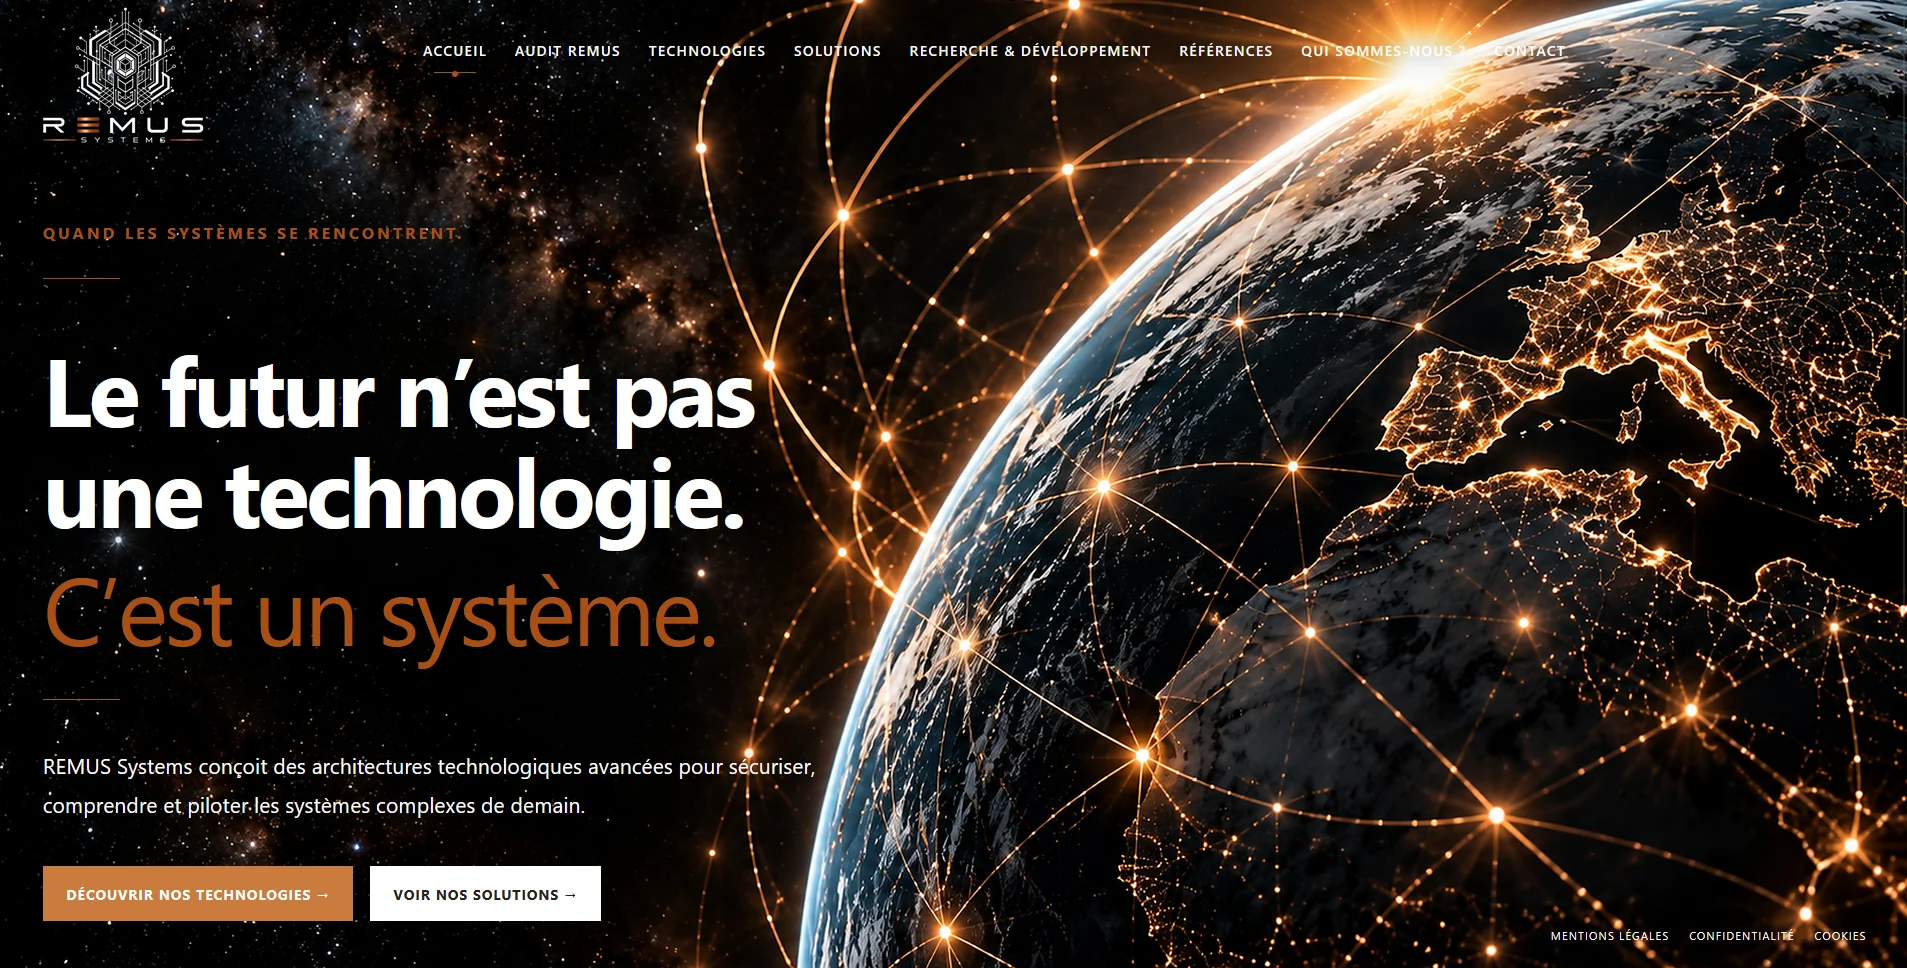
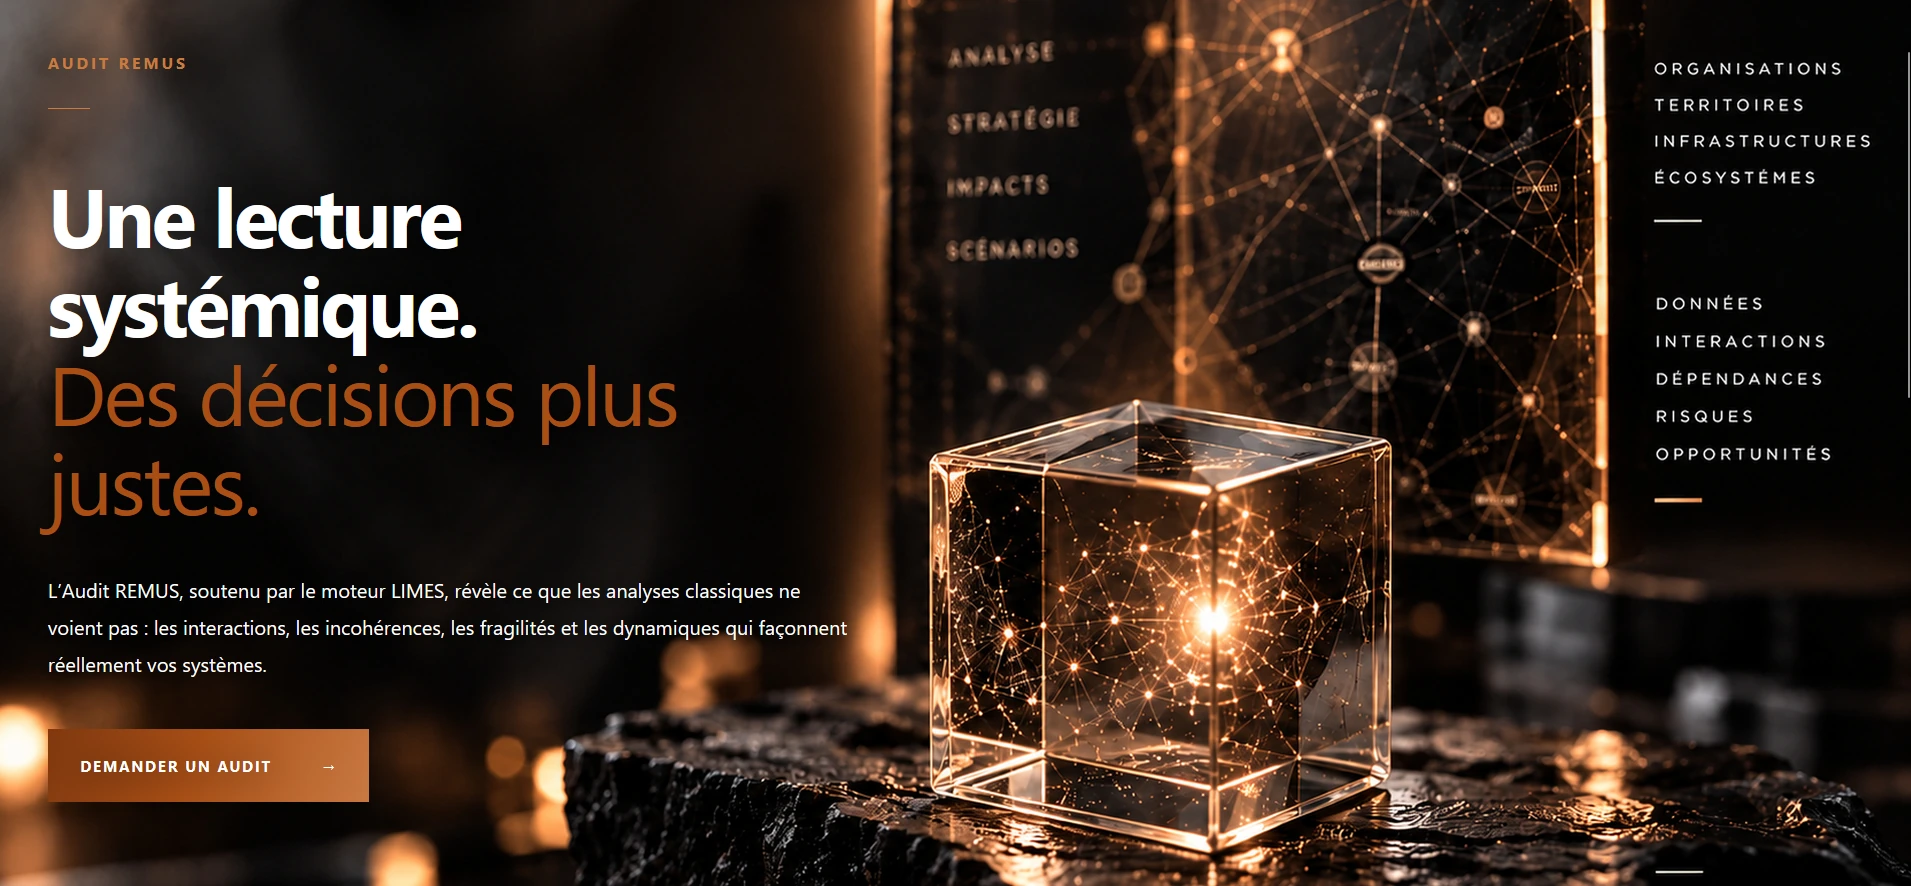
Add files via upload

diff --git a/components/Home.tsx b/components/Home.tsx
@@ -7,7 +7,6 @@ import { useEffect, useState, type FormEvent } from 'react';
 import { ArrowUpRight, ArrowRight, Menu, X, Plus, Minus } from 'lucide-react';
 const projects=[
  {name:'REMUS SYSTEMS',tag:'Site internet sur mesure · Technologies & innovation',description:'Un site vitrine à l’identité affirmée, conçu pour présenter une activité technologique complexe avec clarté et sobriété.',need:'Présenter une expertise technologique exigeante dans un univers clair et crédible.',solution:'Une identité éditoriale premium et des pages dédiées aux solutions, à l’audit et à la recherche.',features:['Identité visuelle premium','Présentation des expertises','Navigation adaptée au mobile'],url:'https://remussystems.fr',kind:'remus'},
- {name:'GENESYS CLEAN',tag:'Création de site vitrine · Entreprise de nettoyage',description:'Une présence web professionnelle pour présenter les prestations de nettoyage et faciliter les demandes de devis.',need:'Rendre les services de nettoyage faciles à comprendre et simplifier la prise de contact.',solution:'Un site vitrine aux couleurs de l’entreprise, structuré autour des prestations et des demandes de devis.',features:['Identité visuelle personnalisée','Présentation des prestations','Demande de devis'],url:'https://genesysclean.fr',kind:'genesys'},
  {name:'LOCA DIRECT',tag:'Développement de plateforme web · Location saisonnière',description:'Une plateforme dédiée à la mise en relation dans la location saisonnière, adaptée à plusieurs profils d’utilisateurs.',need:'Réunir différents acteurs de la location saisonnière sur une même plateforme.',solution:'Une expérience web organisée pour les propriétaires, les voyageurs et les prestataires.',features:['Comptes utilisateurs','Présentation des biens','Mise en relation'],url:'https://www.loca-direct.fr',kind:'loca'}
 ];
 const faqs=[
@@ -50,7 +49,7 @@ function Contact(){
    <button className="button button-dark" type="submit" disabled={busy}>{busy?'Envoi en cours…':'Envoyer mon projet'} <ArrowUpRight size={17}/></button>
   </form></div>}</section>
 }
-export default function Home(){const [faq,setFaq]=useState<number|null>(0);return <><SiteHeader/><main><section className="hero" id="accueil"><div className="hero-top"><span className="eyebrow"><span className="eyebrow-dot"/> STUDIO DE CRÉATION WEB EN ALSACE</span><span className="hero-aside">CRÉATION DE SITES INTERNET<br/>SOLUTIONS WEB SUR MESURE</span></div><div className="hero-layout"><div className="hero-copy"><h1>Votre entreprise mérite un <em>site internet</em> à sa hauteur<span className="olive-dot">.</span></h1><p className="hero-question">Vous avez besoin d’un site professionnel qui inspire confiance, présente clairement votre activité et donne envie à vos futurs clients de vous contacter ?</p><p>SEOKRAFT conçoit des sites internet professionnels, modernes et sur mesure. Chaque projet est pensé pour valoriser votre activité, inspirer confiance et accompagner le développement de votre entreprise.</p><div className="hero-actions"><a className="button button-olive" href="#contact">Parlons de votre projet <ArrowUpRight size={17}/></a><a className="hero-call-button" href="/rendez-vous">Réserver un appel <ArrowUpRight size={17}/></a></div></div><div className="hero-visual"><div className="hero-photo"><Image src="/images/marc-noir-blanc.jpg" alt="Marc Bretzner, créateur de SEOKRAFT, travaillant sur un projet web" fill priority sizes="(max-width: 800px) 90vw, 45vw" style={{objectFit:'cover',objectPosition:'center 39%'}}/></div><a className="hero-project-link" href="#realisations">Voir nos réalisations <ArrowUpRight size={18}/></a></div></div><a href="#besoins" className="scroll-cue">DÉCOUVRIR NOTRE APPROCHE <span>↓</span></a></section><section className="intro-scene" id="besoins" aria-label="Pourquoi créer ou refaire votre site internet"><span className="eyebrow light">UN SITE UTILE À VOTRE ACTIVITÉ</span><h2>Votre site internet doit<br/><em>travailler pour votre entreprise.</em></h2><p>Un site vieillissant, difficile à utiliser ou qui ne reflète plus votre activité peut freiner vos futurs clients. Vous lancez votre entreprise, souhaitez moderniser votre image, recevoir davantage de demandes de devis ou proposer la réservation en ligne ?</p><p>Votre site doit répondre à ces objectifs, sans complexifier votre quotidien. Chez SEOKRAFT, chaque projet commence par une question : <strong>que doit réellement apporter votre site à votre activité ?</strong></p></section><section className="expertise-section" id="expertises"><div className="expertise-heading"><span className="eyebrow">DES SOLUTIONS POUR VOTRE ACTIVITÉ</span><h2>Le bon site.<br/><em>Pour le bon objectif.</em></h2><p>Créer votre présence en ligne, moderniser un site existant ou développer un service plus ambitieux : nous construisons une solution adaptée à vos besoins, sans complexité inutile.</p><a className="expertise-heading-link" href="#contact">Discutons de votre projet <ArrowUpRight size={17}/></a></div><div className="expertise-lines"><a href="#tarifs" className="expertise-item"><span>Création de sites internet</span><p>Présentez votre activité avec un site professionnel qui inspire confiance et facilite la prise de contact.</p><ArrowUpRight aria-hidden="true"/></a><a href="#contact" className="expertise-item"><span>Refonte de sites internet</span><p>Redonnez à votre site une image actuelle, une navigation claire et une présentation fidèle à votre entreprise.</p><ArrowUpRight aria-hidden="true"/></a><a href="#contact" className="expertise-item"><span>Solutions web avancées</span><p>Proposez la réservation en ligne, le paiement, un espace client ou des fonctionnalités adaptées à votre métier.</p><ArrowUpRight aria-hidden="true"/></a><a href="/seo/strasbourg/" className="expertise-item"><span>Référencement SEO &amp; GEO</span><p>Travaillez votre visibilité sur Google et dans les recherches assistées par IA grâce à un accompagnement dédié.</p><ArrowUpRight aria-hidden="true"/></a></div></section><section className="work-section" id="realisations"><div className="section-head"><div><span className="eyebrow">SÉLECTION DE PROJETS</span><h2>Des projets concrets.<br/><em>Une même exigence.</em></h2></div><p>Chaque entreprise a ses objectifs. Découvrez trois projets aux besoins différents, de la vitrine professionnelle à la plateforme web.</p></div><div className="project-stack portfolio-editorial">{projects.map((p,i)=><article className={`project project-${p.kind}`} key={p.kind}><a href={p.url} target="_blank" rel="noopener noreferrer" className="project-image-link portfolio-image-link" aria-label={`Visiter le site ${p.name}`}><Image src={p.kind==='remus'?'/images/projet-remus-systems.webp':p.kind==='genesys'?'/images/projet-genesys-clean.webp':'/images/projet-loca-direct.webp'} alt={`Capture authentique du site ${p.name} réalisé par SEOKRAFT`} width={1908} height={p.kind==='loca'?520:p.kind==='genesys'?906:968} sizes={p.kind==='remus'?'(max-width: 800px) 100vw, 90vw':'(max-width: 800px) 100vw, 75vw'} className="portfolio-screenshot"/><span className="project-visit">VOIR LE SITE <ArrowUpRight size={16}/></span></a><div className="project-meta"><div><span className="eyebrow">{p.tag}</span><h3>{p.name}</h3></div><p>{p.description}</p></div><div className="project-case-study"><div className="project-case-copy"><span className="project-case-label">LE BESOIN</span><p>{p.need}</p></div><div className="project-case-copy"><span className="project-case-label">NOTRE RÉPONSE</span><p>{p.solution}</p></div><div className="project-case-details"><span className="project-case-label">POINTS CLÉS</span><ul>{p.features.map(feature=><li key={feature}>{feature}</li>)}</ul><a href={p.url} target="_blank" rel="noopener noreferrer" className="project-case-link">Découvrir le projet <ArrowUpRight size={16}/></a></div></div></article>)}</div></section><section className="seo-scene" id="referencement"><div className="seo-scene-inner"><span className="eyebrow light">UNE EXPERTISE COMPLÉMENTAIRE · SEO & GEO</span><h2>Un beau site ne suffit pas.<br/><em>Il faut être trouvé.</em></h2><p>Un site internet professionnel valorise votre entreprise. Un référencement efficace aide vos futurs clients à vous découvrir sur Google et dans les moteurs de recherche alimentés par l’intelligence artificielle. SEOKRAFT réunit ces deux expertises pour développer votre présence en ligne.</p><a href="/seo/strasbourg/" className="seo-link">Découvrir notre expertise SEO & GEO <ArrowUpRight size={18}/></a></div></section><section className="human-section" id="studio"><div className="human-quote"><span className="eyebrow">UN STUDIO À TAILLE HUMAINE</span><h2>Du savoir-faire.<br/>De l’écoute.<br/><em>Un vrai contact.</em></h2><p>Chez SEOKRAFT, vous échangez directement avec la personne qui conçoit votre site. De notre premier échange à la mise en ligne, je prends le temps de comprendre votre activité, vos attentes et vos priorités. Vous bénéficiez d’un accompagnement clair et personnalisé, à chaque étape de votre projet.</p><div className="studio-steps" aria-label="Les étapes de votre projet"><div><strong>Échanger</strong><span>Comprendre votre activité et vos objectifs.</span></div><div><strong>Concevoir</strong><span>Créer un site qui vous ressemble.</span></div><div><strong>Valider</strong><span>Ajuster ensemble avant la mise en ligne.</span></div></div><a href="#contact" className="text-link">Parlons de votre projet <ArrowUpRight size={17}/></a></div><div className="human-image"><Image src="/images/marc-portrait-studio.webp" alt="Portrait de Marc Bretzner, interlocuteur unique chez SEOKRAFT" fill sizes="(max-width: 800px) 100vw, 38vw" style={{objectFit:'cover',objectPosition:'center top'}}/></div></section><section className="prices-section sk-pricing" id="tarifs" aria-labelledby="tarifs-titre">
+export default function Home(){const [faq,setFaq]=useState<number|null>(0);return <><SiteHeader/><main><section className="hero" id="accueil"><div className="hero-top"><span className="eyebrow"><span className="eyebrow-dot"/> STUDIO DE CRÉATION WEB EN ALSACE</span><span className="hero-aside">CRÉATION DE SITES INTERNET<br/>SOLUTIONS WEB SUR MESURE</span></div><div className="hero-layout"><div className="hero-copy"><h1>Votre entreprise mérite un <em>site internet</em> à sa hauteur<span className="olive-dot">.</span></h1><p className="hero-question">Vous avez besoin d’un site professionnel qui inspire confiance, présente clairement votre activité et donne envie à vos futurs clients de vous contacter ?</p><p>SEOKRAFT conçoit des sites internet professionnels, modernes et sur mesure. Chaque projet est pensé pour valoriser votre activité, inspirer confiance et accompagner le développement de votre entreprise.</p><div className="hero-actions"><a className="button button-olive" href="#contact">Parlons de votre projet <ArrowUpRight size={17}/></a><a className="hero-call-button" href="/rendez-vous">Réserver un appel <ArrowUpRight size={17}/></a></div></div><div className="hero-visual"><div className="hero-photo"><Image src="/images/marc-noir-blanc.jpg" alt="Marc Bretzner, créateur de SEOKRAFT, travaillant sur un projet web" fill priority sizes="(max-width: 800px) 90vw, 45vw" style={{objectFit:'cover',objectPosition:'center 39%'}}/></div><a className="hero-project-link" href="#realisations">Voir nos réalisations <ArrowUpRight size={18}/></a></div></div><a href="#besoins" className="scroll-cue">DÉCOUVRIR NOTRE APPROCHE <span>↓</span></a></section><section className="intro-scene" id="besoins" aria-label="Pourquoi créer ou refaire votre site internet"><span className="eyebrow light">UN SITE UTILE À VOTRE ACTIVITÉ</span><h2>Votre site internet doit<br/><em>travailler pour votre entreprise.</em></h2><p>Un site vieillissant, difficile à utiliser ou qui ne reflète plus votre activité peut freiner vos futurs clients. Vous lancez votre entreprise, souhaitez moderniser votre image, recevoir davantage de demandes de devis ou proposer la réservation en ligne ?</p><p>Votre site doit répondre à ces objectifs, sans complexifier votre quotidien. Chez SEOKRAFT, chaque projet commence par une question : <strong>que doit réellement apporter votre site à votre activité ?</strong></p></section><section className="expertise-section" id="expertises"><div className="expertise-heading"><span className="eyebrow">DES SOLUTIONS POUR VOTRE ACTIVITÉ</span><h2>Le bon site.<br/><em>Pour le bon objectif.</em></h2><p>Créer votre présence en ligne, moderniser un site existant ou développer un service plus ambitieux : nous construisons une solution adaptée à vos besoins, sans complexité inutile.</p><a className="expertise-heading-link" href="#contact">Discutons de votre projet <ArrowUpRight size={17}/></a></div><div className="expertise-lines"><a href="#tarifs" className="expertise-item"><span>Création de sites internet</span><p>Présentez votre activité avec un site professionnel qui inspire confiance et facilite la prise de contact.</p><ArrowUpRight aria-hidden="true"/></a><a href="#contact" className="expertise-item"><span>Refonte de sites internet</span><p>Redonnez à votre site une image actuelle, une navigation claire et une présentation fidèle à votre entreprise.</p><ArrowUpRight aria-hidden="true"/></a><a href="#contact" className="expertise-item"><span>Solutions web avancées</span><p>Proposez la réservation en ligne, le paiement, un espace client ou des fonctionnalités adaptées à votre métier.</p><ArrowUpRight aria-hidden="true"/></a><a href="/seo/strasbourg/" className="expertise-item"><span>Référencement SEO &amp; GEO</span><p>Travaillez votre visibilité sur Google et dans les recherches assistées par IA grâce à un accompagnement dédié.</p><ArrowUpRight aria-hidden="true"/></a></div></section><section className="work-section" id="realisations"><div className="section-head"><div><span className="eyebrow">SÉLECTION DE PROJETS</span><h2>Des projets concrets.<br/><em>Une même exigence.</em></h2></div><p>Chaque entreprise a ses objectifs. Découvrez deux projets aux besoins différents, du site vitrine technologique à la plateforme web.</p></div><div className="project-stack portfolio-editorial">{projects.map((p,i)=><article className={`project project-${p.kind}`} key={p.kind}><a href={p.url} target="_blank" rel="noopener noreferrer" className="project-image-link portfolio-image-link" aria-label={`Visiter le site ${p.name}`}><Image src={p.kind==='remus'?'/images/projet-remus-systems.webp':'/images/projet-loca-direct.webp'} alt={`Capture authentique du site ${p.name} réalisé par SEOKRAFT`} width={1908} height={p.kind==='loca'?520:886} sizes={p.kind==='remus'?'(max-width: 800px) 100vw, 90vw':'(max-width: 800px) 100vw, 75vw'} className="portfolio-screenshot"/><span className="project-visit">VOIR LE SITE <ArrowUpRight size={16}/></span></a><div className="project-meta"><div><span className="eyebrow">{p.tag}</span><h3>{p.name}</h3></div><p>{p.description}</p></div><div className="project-case-study"><div className="project-case-copy"><span className="project-case-label">LE BESOIN</span><p>{p.need}</p></div><div className="project-case-copy"><span className="project-case-label">NOTRE RÉPONSE</span><p>{p.solution}</p></div><div className="project-case-details"><span className="project-case-label">POINTS CLÉS</span><ul>{p.features.map(feature=><li key={feature}>{feature}</li>)}</ul><a href={p.url} target="_blank" rel="noopener noreferrer" className="project-case-link">Découvrir le projet <ArrowUpRight size={16}/></a></div></div></article>)}</div></section><section className="seo-scene" id="referencement"><div className="seo-scene-inner"><span className="eyebrow light">UNE EXPERTISE COMPLÉMENTAIRE · SEO & GEO</span><h2>Un beau site ne suffit pas.<br/><em>Il faut être trouvé.</em></h2><p>Un site internet professionnel valorise votre entreprise. Un référencement efficace aide vos futurs clients à vous découvrir sur Google et dans les moteurs de recherche alimentés par l’intelligence artificielle. SEOKRAFT réunit ces deux expertises pour développer votre présence en ligne.</p><a href="/seo/strasbourg/" className="seo-link">Découvrir notre expertise SEO & GEO <ArrowUpRight size={18}/></a></div></section><section className="human-section" id="studio"><div className="human-quote"><span className="eyebrow">UN STUDIO À TAILLE HUMAINE</span><h2>Du savoir-faire.<br/>De l’écoute.<br/><em>Un vrai contact.</em></h2><p>Chez SEOKRAFT, vous échangez directement avec la personne qui conçoit votre site. De notre premier échange à la mise en ligne, je prends le temps de comprendre votre activité, vos attentes et vos priorités. Vous bénéficiez d’un accompagnement clair et personnalisé, à chaque étape de votre projet.</p><div className="studio-steps" aria-label="Les étapes de votre projet"><div><strong>Échanger</strong><span>Comprendre votre activité et vos objectifs.</span></div><div><strong>Concevoir</strong><span>Créer un site qui vous ressemble.</span></div><div><strong>Valider</strong><span>Ajuster ensemble avant la mise en ligne.</span></div></div><a href="#contact" className="text-link">Parlons de votre projet <ArrowUpRight size={17}/></a></div><div className="human-image"><Image src="/images/marc-portrait-studio.webp" alt="Portrait de Marc Bretzner, interlocuteur unique chez SEOKRAFT" fill sizes="(max-width: 800px) 100vw, 38vw" style={{objectFit:'cover',objectPosition:'center top'}}/></div></section><section className="prices-section sk-pricing" id="tarifs" aria-labelledby="tarifs-titre">
   <div className="sk-pricing-head"><span className="eyebrow">TARIFS · CRÉATION WEB SUR MESURE</span><h2 id="tarifs-titre">Une présence digitale<br/><em>à la hauteur de votre savoir-faire.</em></h2><p>Un site pensé pour votre entreprise, jusque dans les détails. Une proposition claire, un design singulier et des contenus rédigés pour mettre votre expertise en valeur.</p></div>
   <div className="sk-pricing-offer"><div className="sk-pricing-main"><span className="eyebrow">CRÉATION DE SITE INTERNET SUR MESURE</span><div className="sk-price"><span>À partir de</span><strong>2 800 € <small>TTC</small></strong></div><p className="sk-price-lead">Un site professionnel complet, conçu autour de votre activité et de vos objectifs.</p><a className="button button-olive" href="#contact">Demander un devis personnalisé <ArrowUpRight size={17}/></a><p className="sk-pricing-note">Chaque projet fait l’objet d’un devis détaillé avant tout engagement.</p></div>
   <div className="sk-pricing-included"><h3>Ce que comprend votre création</h3><ul><li>Jusqu’à 5 pages personnalisées</li><li>Direction artistique et design sur mesure</li><li>Adaptation aux ordinateurs, tablettes et mobiles</li><li>Développement web et navigation soignée</li><li>Copywriting professionnel inclus</li><li>Optimisation SEO éditoriale incluse</li><li>Fondations SEO techniques : structure, balises et indexabilité</li><li>Formulaire de contact et mise en ligne</li></ul><p>Le périmètre exact de la rédaction, des optimisations et des fonctionnalités est défini dans votre devis.</p></div></div>
